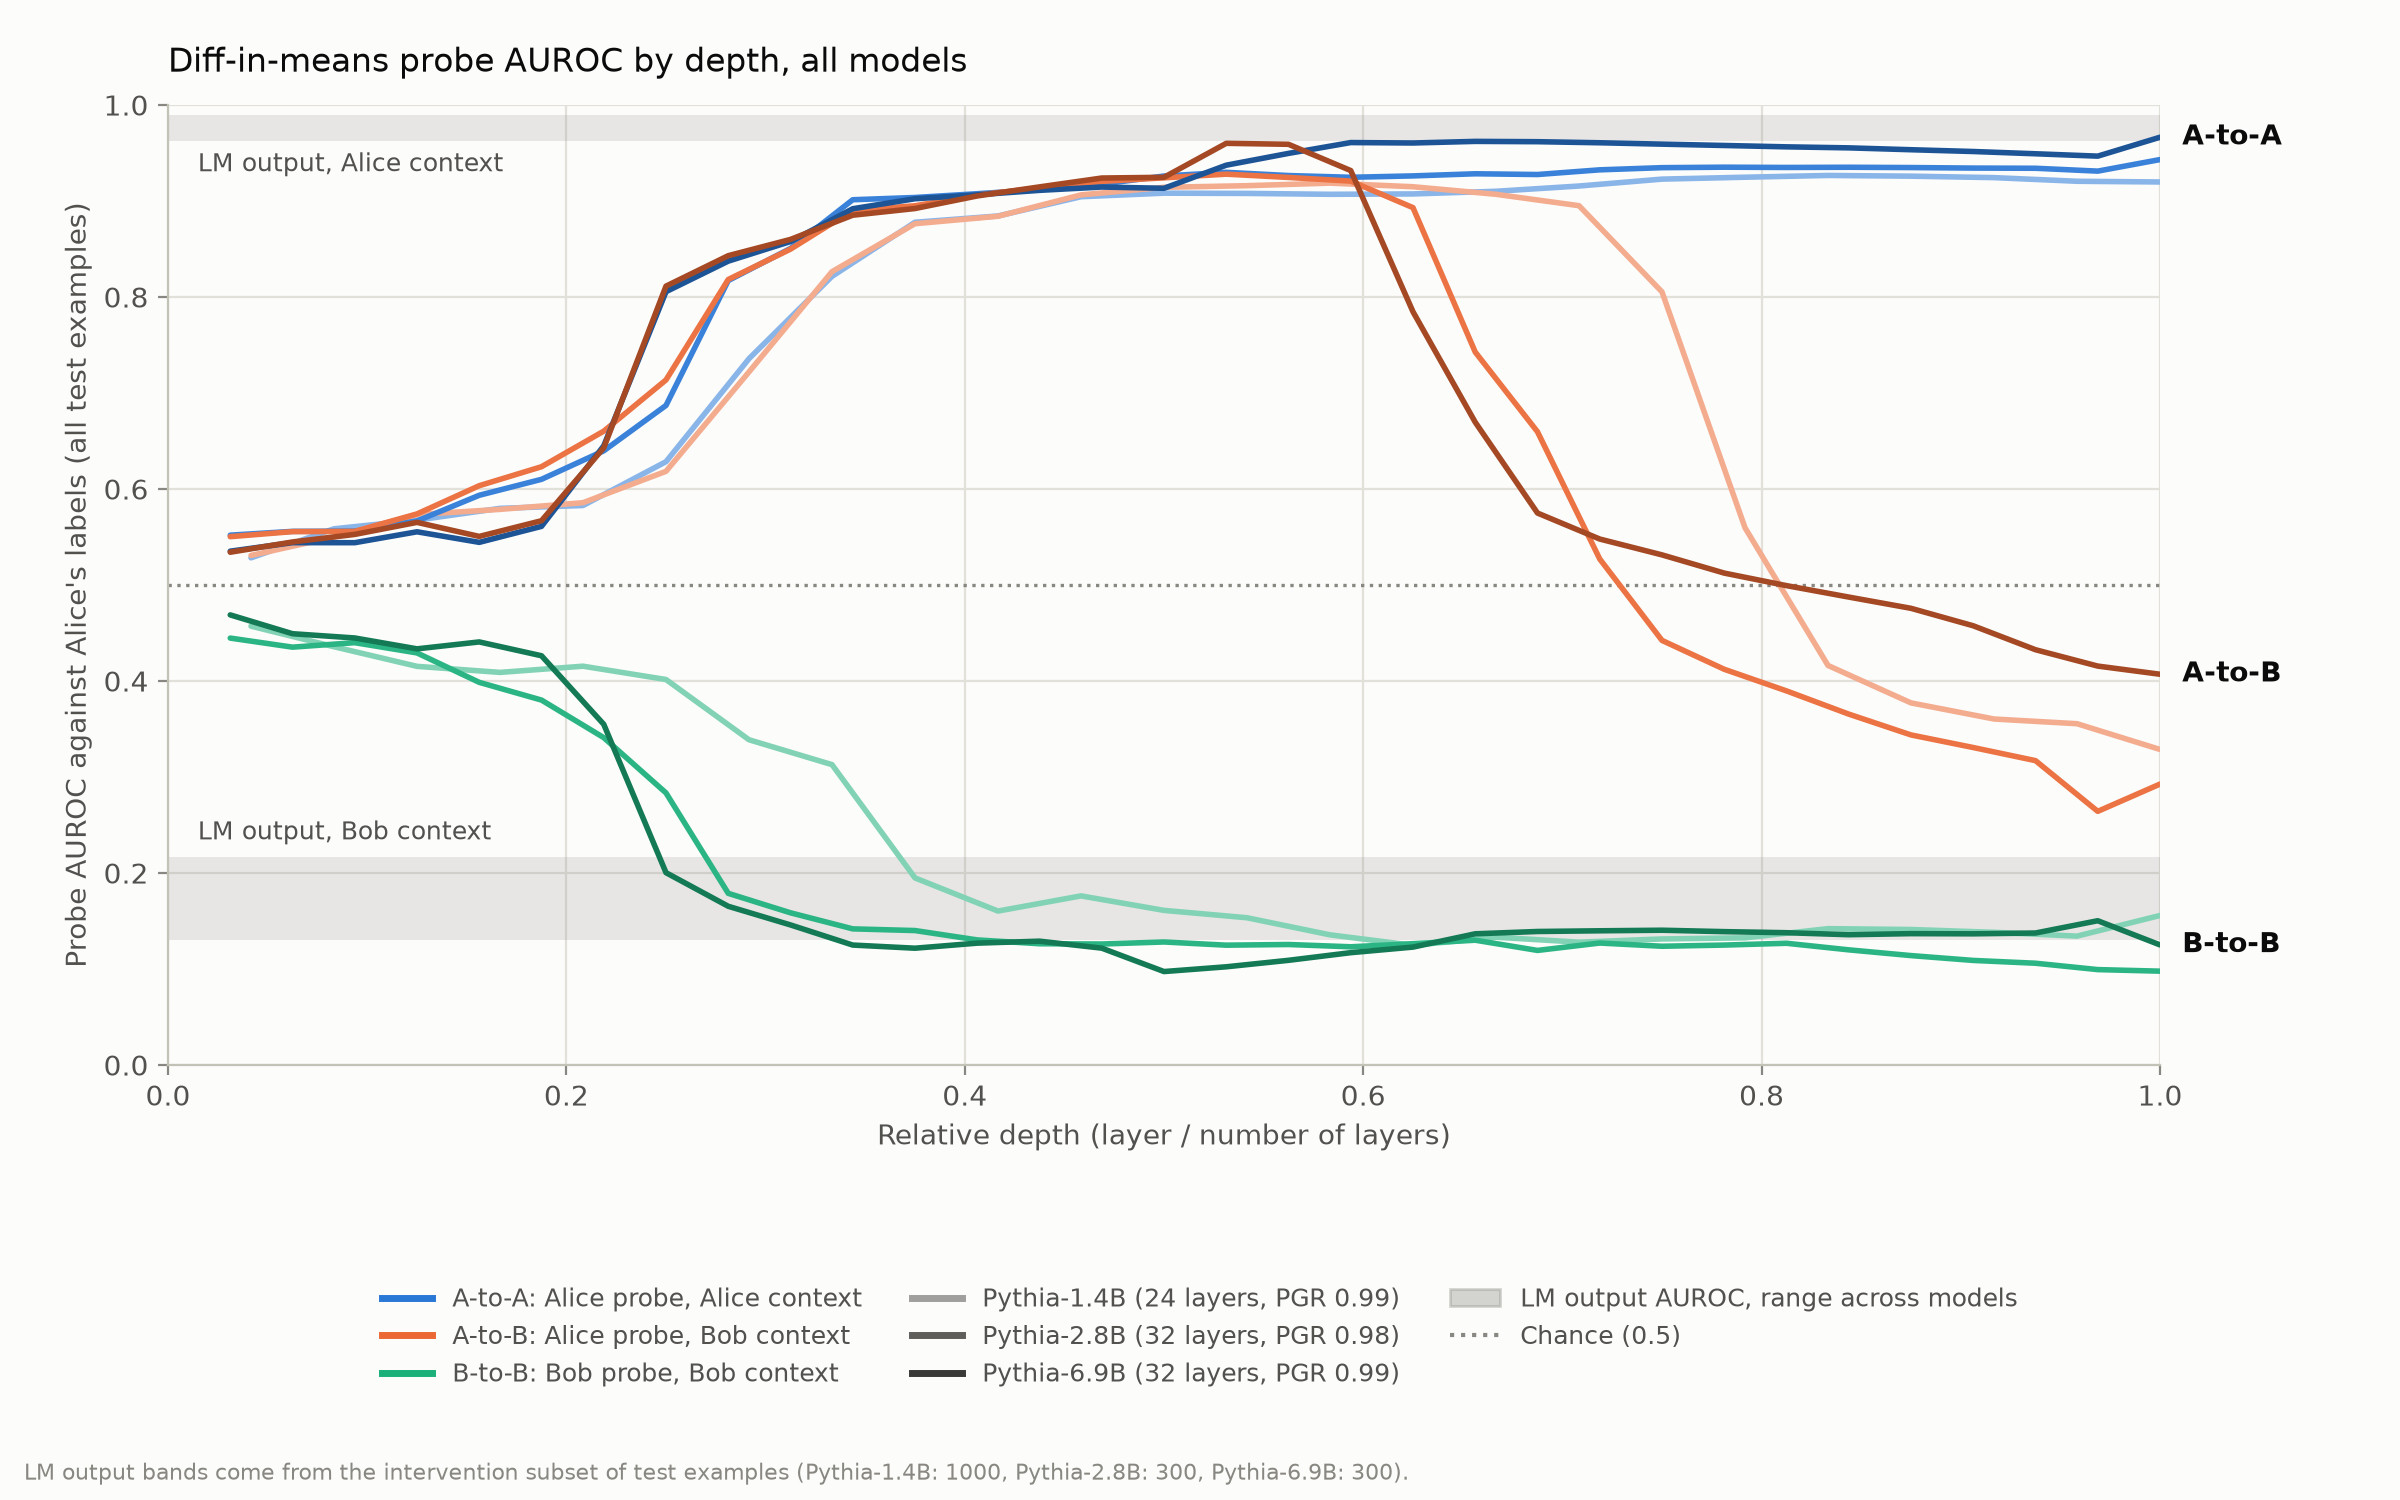
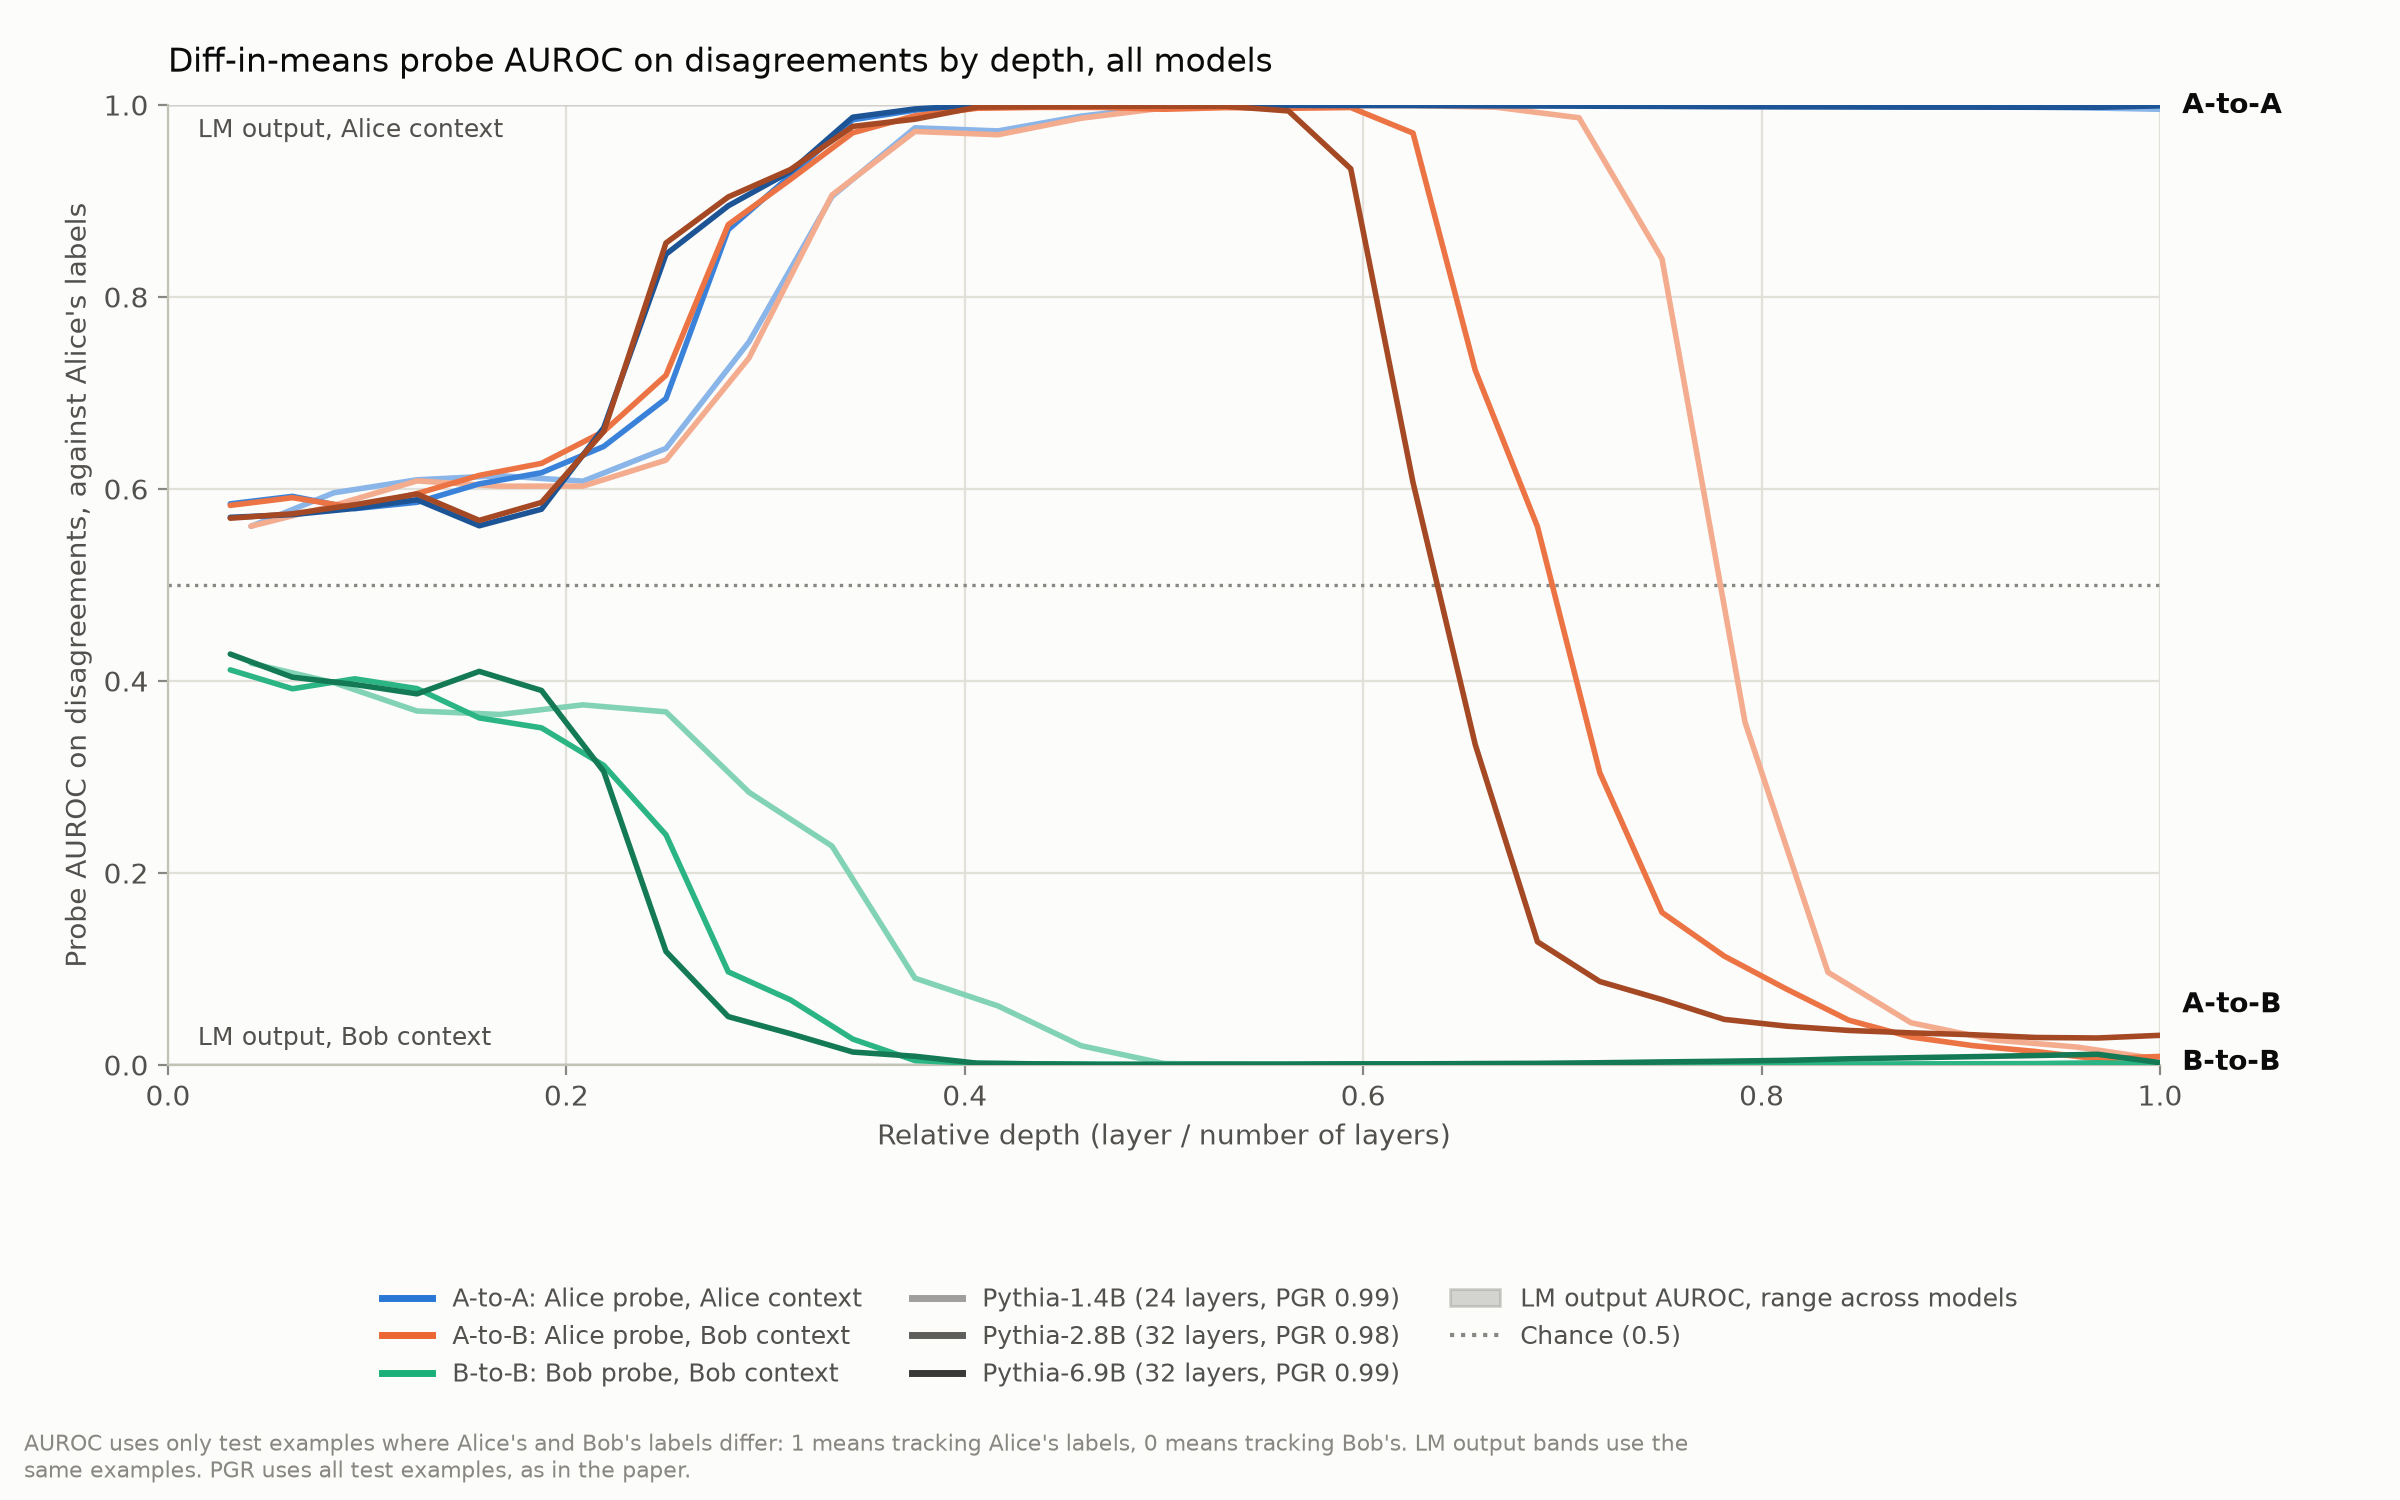
feat: plot probe AUROC on disagreements, as in the paper
Score the combined layerwise probe chart only on test examples where
Alice's and Bob's labels differ, so 1 means tracking Alice and 0 means
tracking Bob. summarize_replication now writes lm_output_metrics.csv
(LM output AUROC against Alice, all and disagreements, per context) from
the probe test set, and the LM output bands use its disagreement values.
PGR stays on all examples, matching the paper. Backfilled the new file
for existing results without rewriting run_metadata.json.

diff --git a/scripts/plot_combined.py b/scripts/plot_combined.py
@@ -1,8 +1,9 @@
 #!/usr/bin/env python3
 """Overlay every model's layerwise probe and intervention AUROC on shared depth axes.
 
-Reads only the small summaries in results/ (metrics.csv, intervention_metrics.csv,
-run_metadata.json, intervention_metadata.json); no activations or models are loaded.
+Reads only the small summaries in results/ (metrics.csv, lm_output_metrics.csv,
+intervention_metrics.csv, run_metadata.json, intervention_metadata.json); no
+activations or models are loaded.
 """
 
 import argparse
@@ -29,6 +30,9 @@ EXPERIMENT_LABELS = {
     "A-to-B": "A-to-B: Alice probe, Bob context",
     "B-to-B": "B-to-B: Bob probe, Bob context",
 }
+# Like the paper's layerwise figure, probes are scored only where Alice and Bob
+# disagree, so 1 means tracking Alice's labels and 0 means tracking Bob's.
+PROBE_COLUMN = "auroc_disagreement"
 # Persona whose labels define "correct" in each experiment's test context.
 CONTEXT_PERSONA = {"A-to-A": "alice", "A-to-B": "bob", "B-to-B": "bob"}
 # Lightest (smallest model) to darkest (largest model) shade offsets.
@@ -48,10 +52,10 @@ OUTPUT_DIR = "results/combined"
 class ModelResults:
     name: str
     n_layers: int
-    probe: dict  # experiment -> (depths, aurocs against Alice labels)
+    probe: dict  # experiment -> (depths, disagreement aurocs against Alice labels)
     intervention: dict  # experiment -> (depths, intervened aurocs vs context persona)
     clean: dict  # experiment -> clean output auroc vs context persona
-    lm_output_vs_alice: dict  # context persona -> clean output auroc vs Alice labels
+    lm_output_vs_alice: dict  # context persona -> LM output disagreement auroc vs Alice
     pgr: float
     intervention_examples: int | None
 
@@ -121,6 +125,7 @@ def single_value(rows, experiment, column):
 def load_model_results(directory):
     directory = Path(directory)
     probe_rows = read_rows(directory / "metrics.csv")
+    lm_output_rows = read_rows(directory / "lm_output_metrics.csv")
     intervention_rows = read_rows(directory / "intervention_metrics.csv")
     metadata = json.loads((directory / "run_metadata.json").read_text())
     intervention_metadata_path = directory / "intervention_metadata.json"
@@ -134,7 +139,7 @@ def load_model_results(directory):
         name=directory.name,
         n_layers=n_layers,
         probe={
-            name: curve(probe_rows, name, "auroc_all", n_layers, 0) for name in EXPERIMENTS
+            name: curve(probe_rows, name, PROBE_COLUMN, n_layers, 0) for name in EXPERIMENTS
         },
         # Intervention summaries use 0-indexed layers; probe metrics are 1-indexed.
         intervention={
@@ -145,17 +150,19 @@ def load_model_results(directory):
             name: single_value(intervention_rows, name, clean_column(name))
             for name in EXPERIMENTS
         },
-        lm_output_vs_alice={
-            "Alice": single_value(intervention_rows, "A-to-A", "cl_auroc_alice"),
-            "Bob": single_value(intervention_rows, "B-to-B", "cl_auroc_alice"),
-        },
+        lm_output_vs_alice={row["context"]: float(row[PROBE_COLUMN]) for row in lm_output_rows},
         pgr=metadata["performance_gap_recovered"],
         intervention_examples=intervention_examples,
     )
 
 
 def discover_model_dirs(roots):
-    required = ("metrics.csv", "intervention_metrics.csv", "run_metadata.json")
+    required = (
+        "metrics.csv",
+        "lm_output_metrics.csv",
+        "intervention_metrics.csv",
+        "run_metadata.json",
+    )
     found = [
         path
         for root in map(Path, roots)
@@ -298,7 +305,7 @@ def new_figure():
 
 def plot_probe_auroc(models, path):
     fig, ax = new_figure()
-    style_axes(ax, "Probe AUROC against Alice's labels (all test examples)")
+    style_axes(ax, "Probe AUROC on disagreements, against Alice's labels")
     band(ax, [m.lm_output_vs_alice["Alice"] for m in models], "LM output, Alice context", -0.012)
     band(ax, [m.lm_output_vs_alice["Bob"] for m in models], "LM output, Bob context", 0.012)
     plot_curves(ax, models, "probe")
@@ -309,8 +316,10 @@ def plot_probe_auroc(models, path):
     ]
     finish(
         fig, ax, models, reference,
-        "Diff-in-means probe AUROC by depth, all models",
-        footnote_text(models, "LM output bands"),
+        "Diff-in-means probe AUROC on disagreements by depth, all models",
+        "AUROC uses only test examples where Alice's and Bob's labels differ: 1 means"
+        " tracking Alice's labels, 0 means tracking Bob's. LM output bands use the same"
+        " examples. PGR uses all test examples, as in the paper.",
         path,
     )
 
@@ -328,19 +337,22 @@ def plot_intervention_auroc(models, path):
     finish(
         fig, ax, models, reference,
         "Reflecting the probe direction at each depth, all models",
-        footnote_text(models, "Clean-output values")
+        intervention_footnote(models)
         + " A-to-A is scored against Alice's labels; A-to-B and B-to-B against Bob's.",
         path,
     )
 
 
-def footnote_text(models, subject):
+def intervention_footnote(models):
     counts = ", ".join(
         f"{display_name(m.name)}: {m.intervention_examples}"
         for m in models
         if m.intervention_examples is not None
     )
-    return f"{subject} come from the intervention subset of test examples ({counts})."
+    return (
+        "Clean-output values come from the intervention subset of test examples"
+        f" ({counts}); all examples are scored, including agreements."
+    )
 
 
 def main():

diff --git a/test/test_plot_combined.py b/test/test_plot_combined.py
@@ -30,6 +30,11 @@ A-to-B,1,Alice,Bob,Bob,0.3,0.6,0.22,0.93
 A-to-B,0,Alice,Bob,Bob,0.2,0.9,0.22,0.93
 """
 
+LM_OUTPUT = """context,auroc_all,auroc_disagreement
+Alice,0.96,0.99
+Bob,0.22,0.02
+"""
+
 METADATA = """{
   "model": "EleutherAI/pythia-1.4b",
   "performance_gap_recovered": 0.97
@@ -43,6 +48,7 @@ def write_model_dir(root, name="pythia-1.4b"):
     (directory / "metrics.csv").write_text(METRICS)
     (directory / "intervention_metrics.csv").write_text(INTERVENTIONS)
     (directory / "run_metadata.json").write_text(METADATA)
+    (directory / "lm_output_metrics.csv").write_text(LM_OUTPUT)
     return directory
 
 
@@ -88,13 +94,15 @@ class LoadModelResultsTest(unittest.TestCase):
 
         self.assertEqual(results.name, "pythia-1.4b")
         self.assertEqual(results.n_layers, 2)
-        self.assertEqual(results.probe["A-to-B"], ((0.5, 1.0), (0.5, 0.8)))
+        # Probe curves use disagreement AUROC, as in the paper's layerwise figure.
+        self.assertEqual(results.probe["A-to-B"], ((0.5, 1.0), (0.5, 0.85)))
+        self.assertEqual(results.probe["B-to-B"], ((0.5, 1.0), (0.4, 0.1)))
         # Intervention layers are 0-indexed on disk and sorted on load.
         self.assertEqual(results.intervention["A-to-A"], ((0.5, 1.0), (0.95, 0.1)))
         self.assertEqual(results.intervention["A-to-B"], ((0.5, 1.0), (0.9, 0.6)))
         self.assertEqual(results.clean["A-to-A"], 0.96)
         self.assertEqual(results.clean["B-to-B"], 0.93)
-        self.assertEqual(results.lm_output_vs_alice, {"Alice": 0.96, "Bob": 0.22})
+        self.assertEqual(results.lm_output_vs_alice, {"Alice": 0.99, "Bob": 0.02})
         self.assertEqual(results.pgr, 0.97)
 
     def test_rejects_mismatched_layer_counts(self):
@@ -115,6 +123,7 @@ class DiscoverModelDirsTest(unittest.TestCase):
             write_model_dir(root / "extension", "pythia-6.9b")
             write_model_dir(root / "replication", "pythia-1.4b")
             (root / "extension" / "pythia-12b").mkdir()
+            (write_model_dir(root / "extension", "pythia-410m") / "lm_output_metrics.csv").unlink()
             found = discover_model_dirs([root / "replication", root / "extension"])
 
         self.assertEqual([path.name for path in found], ["pythia-1.4b", "pythia-6.9b"])

diff --git a/test/test_summarize_replication.py b/test/test_summarize_replication.py
@@ -1,0 +1,58 @@
+import tempfile
+import unittest
+from pathlib import Path
+
+import torch
+
+from scripts.summarize_replication import lm_output_rows
+
+ALICE = [0, 1, 0, 1]
+BOB = [0, 1, 1, 0]  # disagrees with Alice on the last two examples
+
+
+def write_test_split(activation_root, character, lm_log_odds):
+    root = activation_root / character / "test"
+    root.mkdir(parents=True)
+    torch.save(torch.tensor(ALICE), root / "alice_labels.pt")
+    torch.save(torch.tensor(BOB), root / "bob_labels.pt")
+    torch.save(torch.tensor(lm_log_odds), root / "lm_log_odds.pt")
+
+
+class LmOutputRowsTest(unittest.TestCase):
+    def test_scores_lm_output_against_alice_on_all_and_disagreements(self):
+        with tempfile.TemporaryDirectory() as tmp:
+            root = Path(tmp)
+            # In Alice's context the LM tracks Alice; in Bob's it tracks Bob.
+            write_test_split(root, "A", [-2.0, 2.0, -1.0, 1.0])
+            write_test_split(root, "B", [-2.0, 2.0, 1.0, -1.0])
+            rows = lm_output_rows(root)
+
+        self.assertEqual(
+            rows,
+            [
+                {"context": "Alice", "auroc_all": 1.0, "auroc_disagreement": 1.0},
+                {"context": "Bob", "auroc_all": 0.75, "auroc_disagreement": 0.0},
+            ],
+        )
+
+    def test_accepts_bfloat16_log_odds(self):
+        with tempfile.TemporaryDirectory() as tmp:
+            root = Path(tmp)
+            write_test_split(root, "A", [-2.0, 2.0, -1.0, 1.0])
+            write_test_split(root, "B", [-2.0, 2.0, 1.0, -1.0])
+            path = root / "B" / "test" / "lm_log_odds.pt"
+            torch.save(torch.load(path).to(torch.bfloat16), path)
+            rows = lm_output_rows(root)
+
+        self.assertEqual(rows[1]["auroc_disagreement"], 0.0)
+
+    def test_rejects_missing_split(self):
+        with tempfile.TemporaryDirectory() as tmp:
+            root = Path(tmp)
+            write_test_split(root, "A", [-2.0, 2.0, -1.0, 1.0])
+            with self.assertRaises(FileNotFoundError):
+                lm_output_rows(root)
+
+
+if __name__ == "__main__":
+    unittest.main()

diff --git a/scripts/summarize_replication.py b/scripts/summarize_replication.py
@@ -35,6 +35,25 @@ def auroc(labels, scores):
     return float(roc_auc_score(labels, scores))
 
 
+def lm_output_rows(activation_root):
+    """LM output AUROC against Alice's labels in each persona's test context."""
+    rows = []
+    for character, context in (("A", "Alice"), ("B", "Bob")):
+        root = Path(activation_root) / character / "test"
+        scores = torch.load(root / "lm_log_odds.pt", map_location="cpu").float().numpy()
+        alice = torch.load(root / "alice_labels.pt", map_location="cpu").numpy()
+        bob = torch.load(root / "bob_labels.pt", map_location="cpu").numpy()
+        disagree = alice != bob
+        rows.append(
+            {
+                "context": context,
+                "auroc_all": auroc(alice, scores),
+                "auroc_disagreement": auroc(alice[disagree], scores[disagree]),
+            }
+        )
+    return rows
+
+
 def earliest_layer(values, threshold=0.95):
     maximum = max(values)
     if maximum < 0.5:
@@ -98,6 +117,11 @@ def main():
             writer = csv.DictWriter(handle, fieldnames=list(rows[0]))
             writer.writeheader()
             writer.writerows(rows)
+        lm_rows = lm_output_rows(activation_root)
+        with (result_root / "lm_output_metrics.csv").open("w", newline="") as handle:
+            writer = csv.DictWriter(handle, fieldnames=list(lm_rows[0]))
+            writer.writeheader()
+            writer.writerows(lm_rows)
         with (result_root / "run_metadata.json").open("w") as handle:
             json.dump(
                 {
